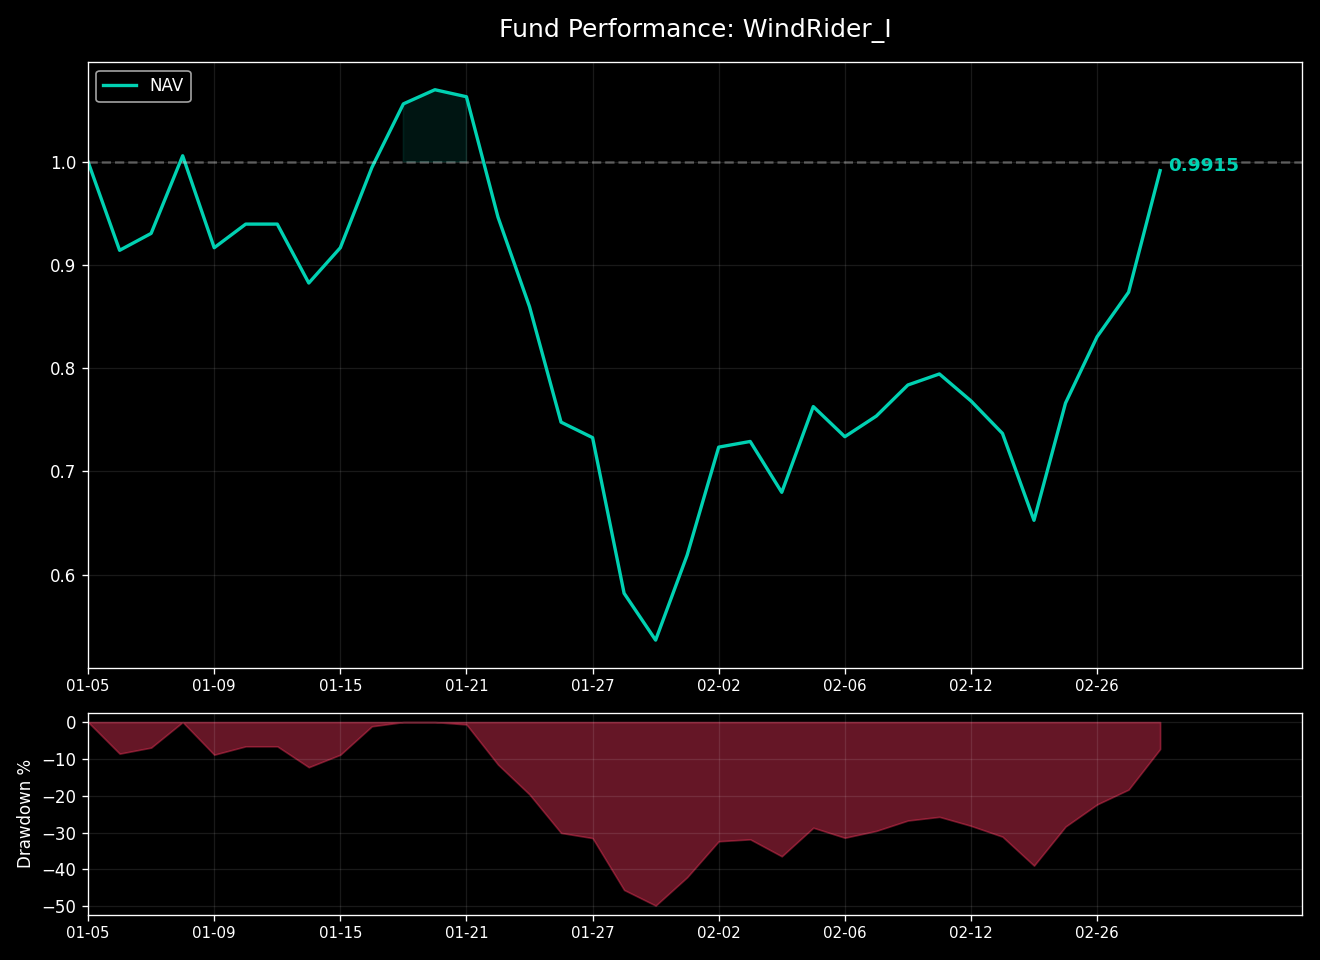
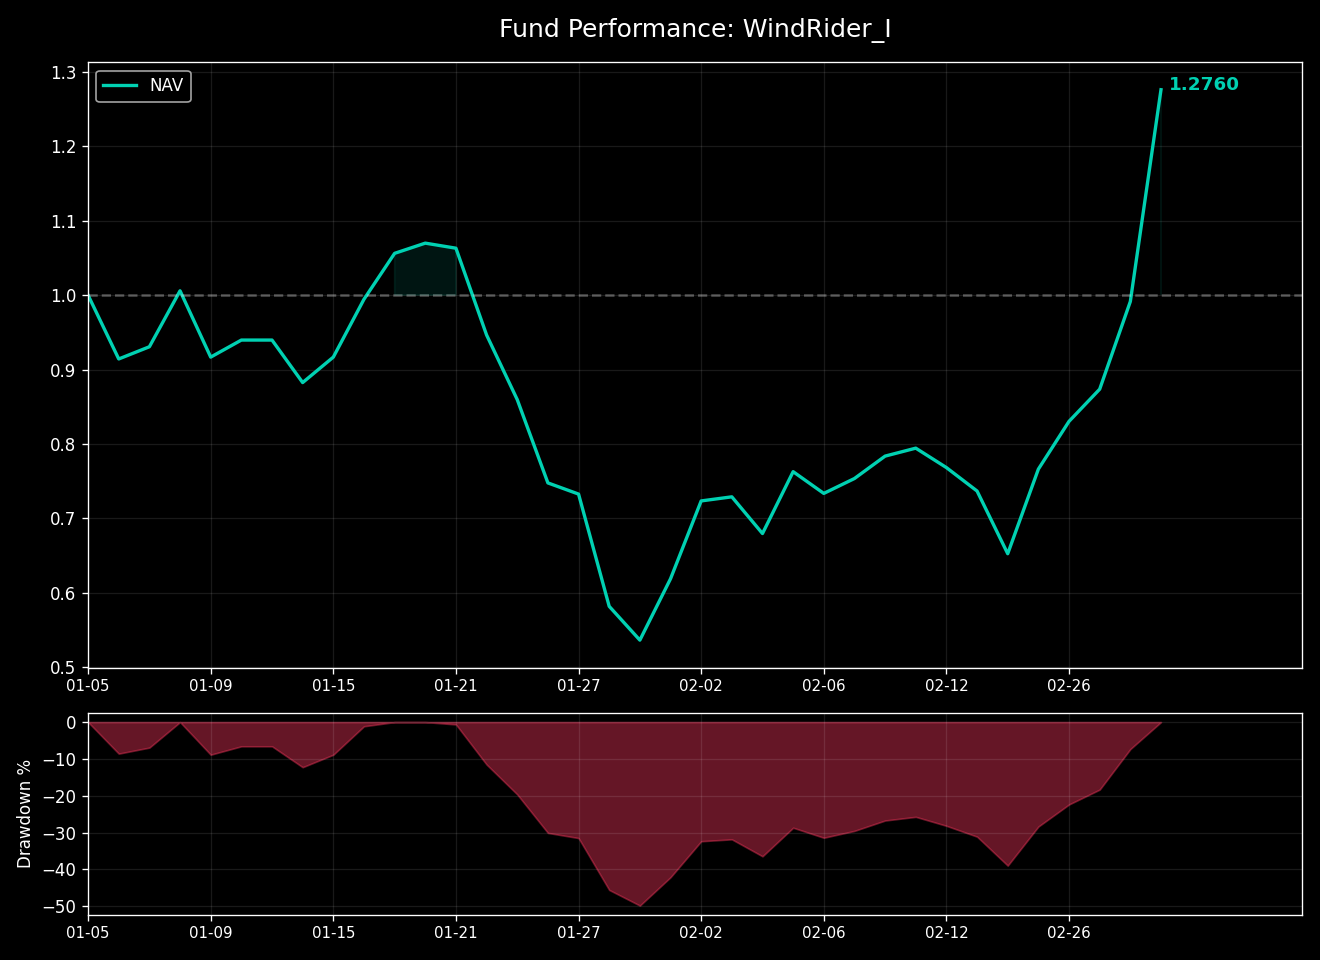
Updated Hugo site content

diff --git a/content/investment/windrider-1.md b/content/investment/windrider-1.md
@@ -1,8 +1,8 @@
 +++
 title = "风舵1号 (WindRider I)  /// 指数"
 summary = "商品期货分形摆动策略，实盘最新净值与核心风险指标。"
-date = 2026-03-02T17:38:35+08:00
-lastmod = 2026-03-02T17:38:35+08:00
+date = 2026-03-03T15:15:03+08:00
+lastmod = 2026-03-03T15:15:03+08:00
 draft = false
 description = "商品期货分形摆动策略实盘"
 +++
@@ -15,24 +15,24 @@ description = "商品期货分形摆动策略实盘"
 
 ### 风舵1号 (WindRider I) &nbsp;&nbsp;<span style="color: #E63946; font-weight: bold;">/</span><span style="color: #F1A73E; font-weight: bold;">/</span><span style="color: #000091; font-weight: bold;">/</span>&nbsp;&nbsp; 指数
 商品期货分形摆动策略实盘<br>
-净值简报 <small>(截至: 2026-03-02)</small>
+净值简报 <small>(截至: 2026-03-03)</small>
 
 |  |  |
 | :--- | :--- |
 | **指数代码：** | WDR1.CTA |
 | **起步日期：** | 2026-01-05 |
-| **最新净值：** | 0.9915 |
-| **今日涨跌：** | +13.48% |
+| **最新净值：** | 1.2760 |
+| **今日涨跌：** | +28.69% |
 
 ===========================
 
 | 核心指标 | |
 | :--- | :--- |
-| **累计涨跌：** | -0.85% |
-| **年化收益：** | -5.41% |
+| **累计涨跌：** | +27.60% |
+| **年化收益：** | +376.23% |
 | **最大回撤：** | -49.85% |
-| **卡玛比率：** | -0.11 |
-| **策略状态：** | 已运行 57 天 |
+| **卡玛比率：** | 7.55 |
+| **策略状态：** | 已运行 58 天 |
 
 ### 净值曲线
 ![风舵1号净值曲线](/images/investment/windrider_nav.png)
